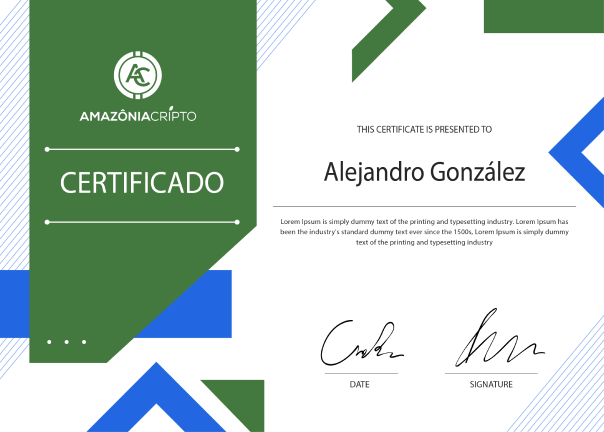
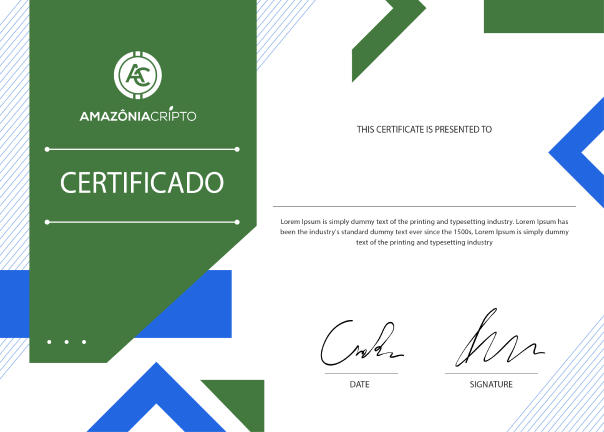
fix

Changed region(s): [[0.5364, 0.3611, 0.8642, 0.4213]]

diff --git a/pages/frame2.js b/pages/frame2.js
@@ -44,7 +44,7 @@ export default function Frame2() {
                 <Grid item xs={desktop ? 6 : 12} className="signLeft">
                     <Box sx={{ padding: desktop ? "10%" : "20px" }}>
                         <Box display="flex" justifyContent="space-between" sx={{ mb: "50px" }}>
-                            <Typography fontSize={desktop ? "32px" : "25px"} color="white">{address.substring(0,5)} ...... {address.substring(address.length-5)}</Typography>
+                            <Typography fontSize={desktop ? "32px" : "25px"} color="white">{address.substring(0, 5)} ...... {address.substring(address.length - 5)}</Typography>
                             <Box display="flex" gap={2}>
                                 <Image src={copy} onClick={copyClipboard} style={{ cursor: 'pointer' }} />
                                 <Link href={`https://polygonscan.com/address/${address}`} target='_blank' >
@@ -53,7 +53,9 @@ export default function Frame2() {
                             </Box>
                         </Box>
                         <Box display="flex" justifyContent="center" mt="30px">
-                            <Image src={sign} width={desktop ? '70%' : 300} height={desktop ? "30%" : 200} style={{ borderRadius: "30px" }} />
+                            <Box className="box" sx={{ width: desktop ? '90%' : 300, height: desktop ? "60vh" : 200 }}>
+                                <Typography fontSize="32px" sx={{ ml: "60%", mt: "25%" }}>{name}</Typography>
+                            </Box>
                         </Box>
                         <Box gap={2} sx={{ mt: "50px" }}>
                             <Box display="flex" gap={2} sx={{ mb: "20px" }}>
@@ -73,7 +75,7 @@ export default function Frame2() {
                         <Box sx={{ padding: desktop ? "50px" : "20px" }}>
                             <Box display="flex" justifyContent="space-between">
                                 <Typography fontSize={desktop ? "24px" : "15px"}>Endereço do Smart Contract</Typography>
-                                <Typography fontSize={desktop ? "24px" : "15px"}>{address.substring(0,5)} ...... {address.substring(address.length-5)}</Typography>
+                                <Typography fontSize={desktop ? "24px" : "15px"}>{address.substring(0, 5)} ...... {address.substring(address.length - 5)}</Typography>
                             </Box>
                             <Box display="flex" justifyContent="space-between" sx={{ mt: "20px" }}>
                                 <Typography fontSize={desktop ? "24px" : "15px"}> ID do token</Typography>

diff --git a/pages/index.js b/pages/index.js
@@ -27,7 +27,7 @@ export default function Index() {
                 setName(result.data.name);
             })
             .catch(err => {
-               
+
             })
         if (token && participantID) {
             axios.get(`https://amazonia-cripto.onrender.com/validateAccessToken/${token}/${participantID}`)
@@ -64,7 +64,9 @@ export default function Index() {
                         <>
                             <Grid item xs={desktop ? 6 : 12} className="mockupLeft" sx={{ paddingY: { sm: 2, md: 4 } }}>
                                 <Box display="flex" justifyContent="center" mt="30px">
-                                    <Image src={sign} width={desktop ? '70%' : 300} height={desktop ? "30%" : 200} style={{ borderRadius: "30px" }} />
+                                    <Box className="box" sx={{ width: desktop ? '90%' : 300, height: desktop ? "60vh" : 200 }}>
+                                        <Typography fontSize="32px" sx={{ ml: "60%", mt: "25%" }}>{name}</Typography>
+                                    </Box>
                                 </Box>
                                 <Box className="btn">
                                     <a href={`/spin?participantId=${participantID}`} style={{ fontSize: "32px", color: "white", cursor: "pointer" }}>Obter NFT</a>
@@ -108,7 +110,9 @@ export default function Index() {
                             </Grid>
                             <Grid item xs={desktop ? 6 : 12} className="mockupLeft">
                                 <Box display="flex" justifyContent="center" mt="30px">
-                                    <Image src={sign} width={desktop ? '70%' : 300} height={desktop ? "30%" : 200} style={{ borderRadius: "30px" }} />
+                                    <Box className="box" sx={{ width: desktop ? '90%' : 300, height: desktop ? "60vh" : 200 }}>
+                                        <Typography fontSize="20px" sx={{ ml: "60%", mt: "25%" }}>{name}</Typography>
+                                    </Box>
                                 </Box>
                                 <Box className="btn">
                                     <a href={`/spin?participantId=${participantID}`} style={{ fontSize: "12px", color: "white", cursor: "pointer" }}>Obter NFT</a>

diff --git a/styles/globals.css b/styles/globals.css
@@ -84,7 +84,11 @@ a {
   filter: drop-shadow(0px 4px 4px rgba(0, 0, 0, 0.25));
   border-radius: 25px;
 }
-
+.box{
+  background-image: url("../assets/sign.png");
+  border-radius: 30px;
+  background-size: cover;
+}
 .profile {
   width: 40vw;
   background: #E8E8E8;
